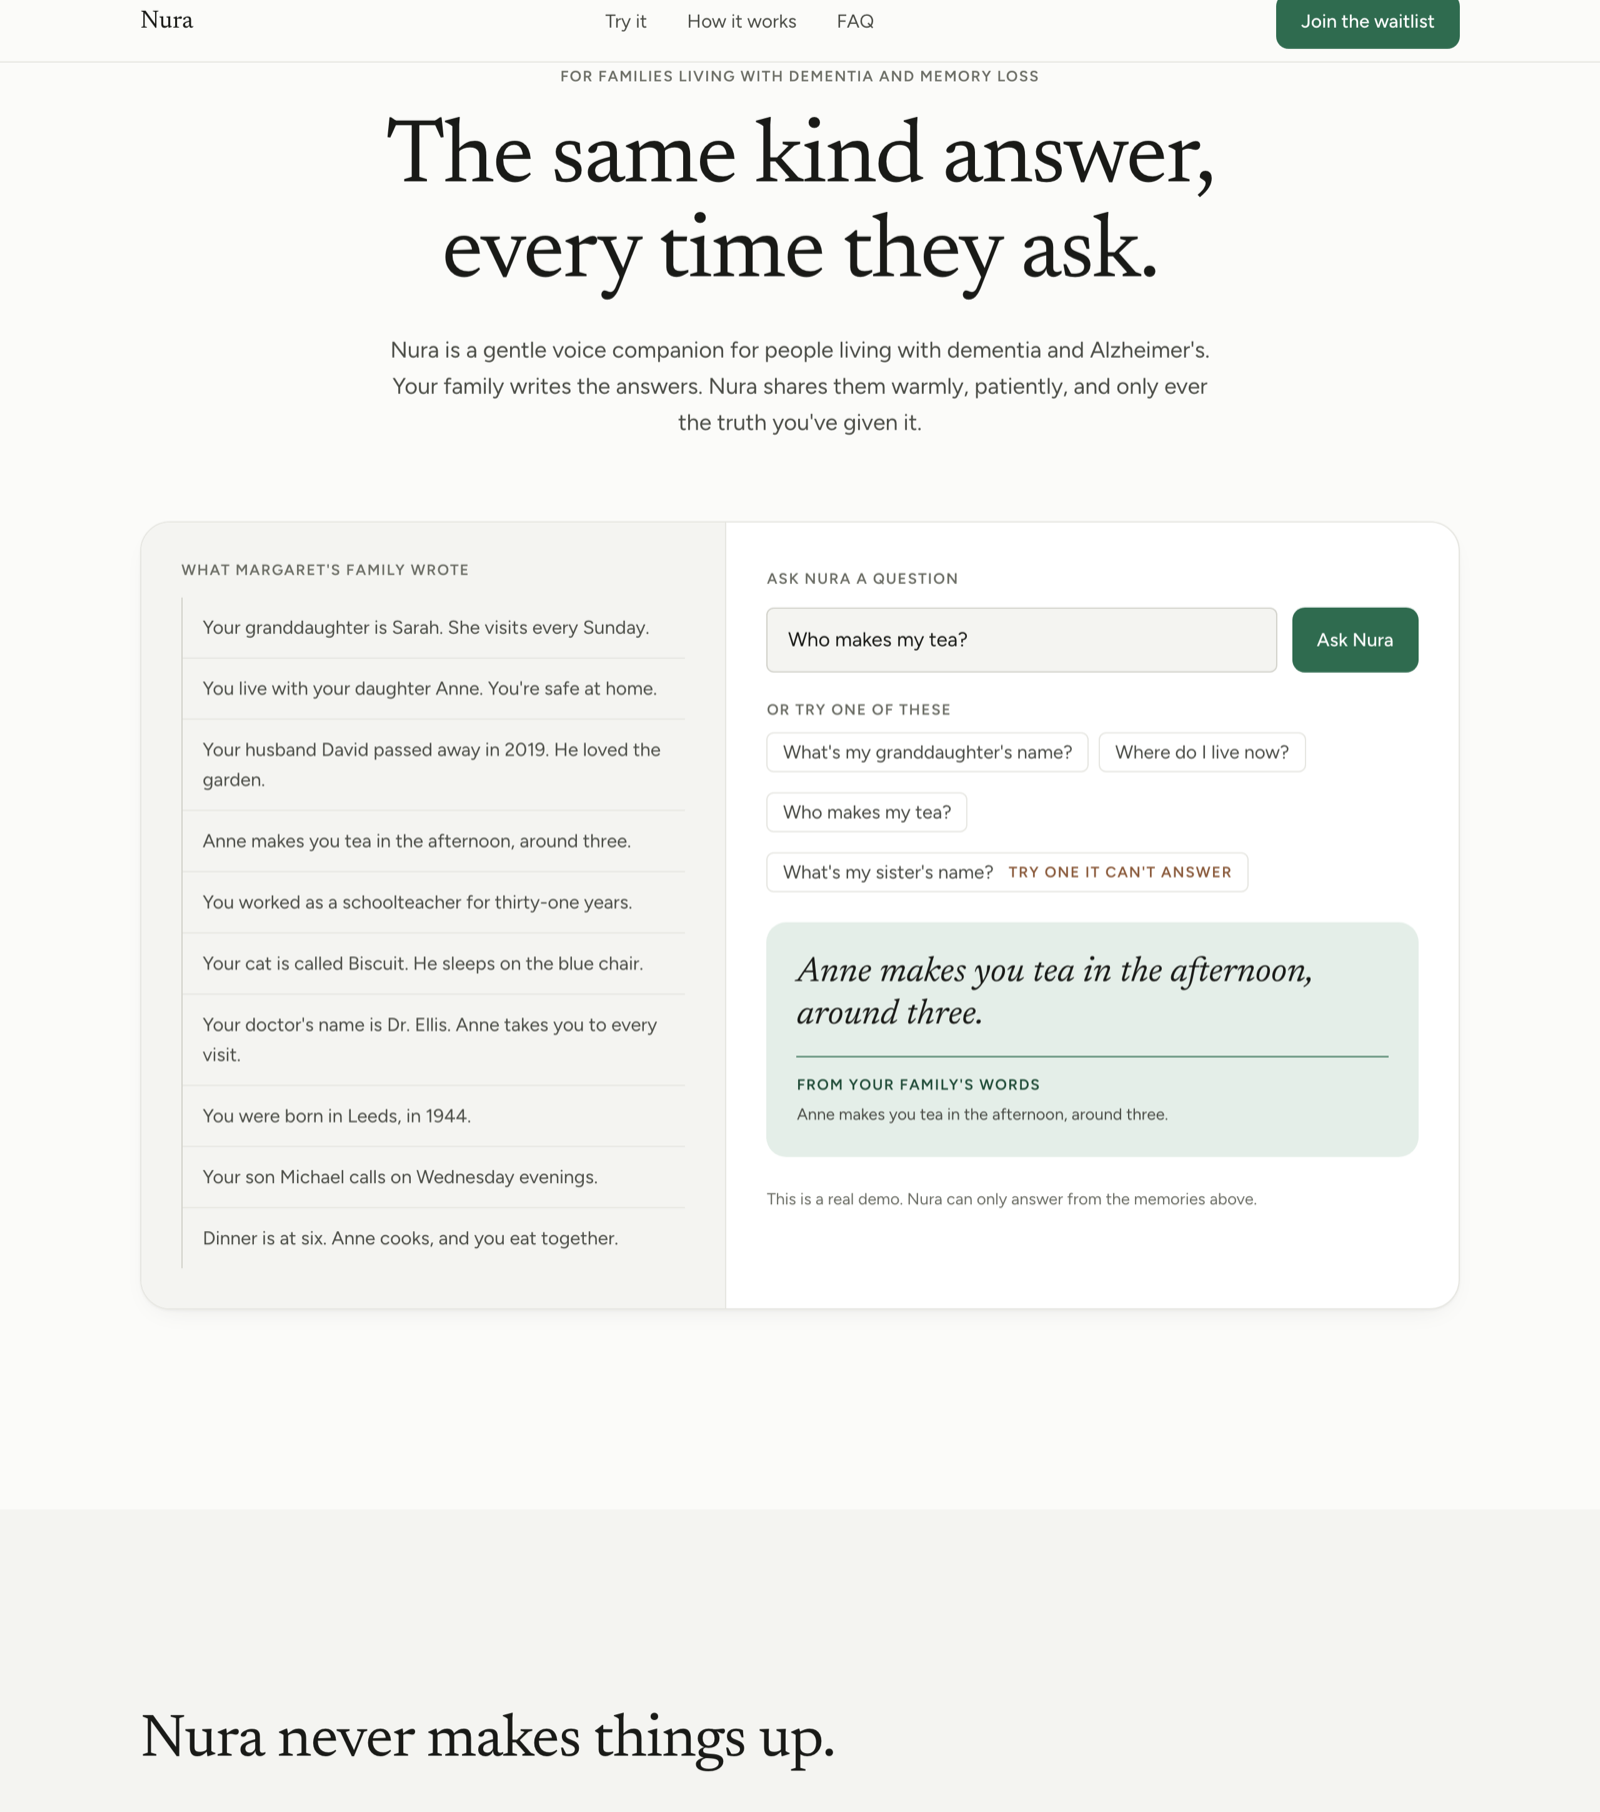
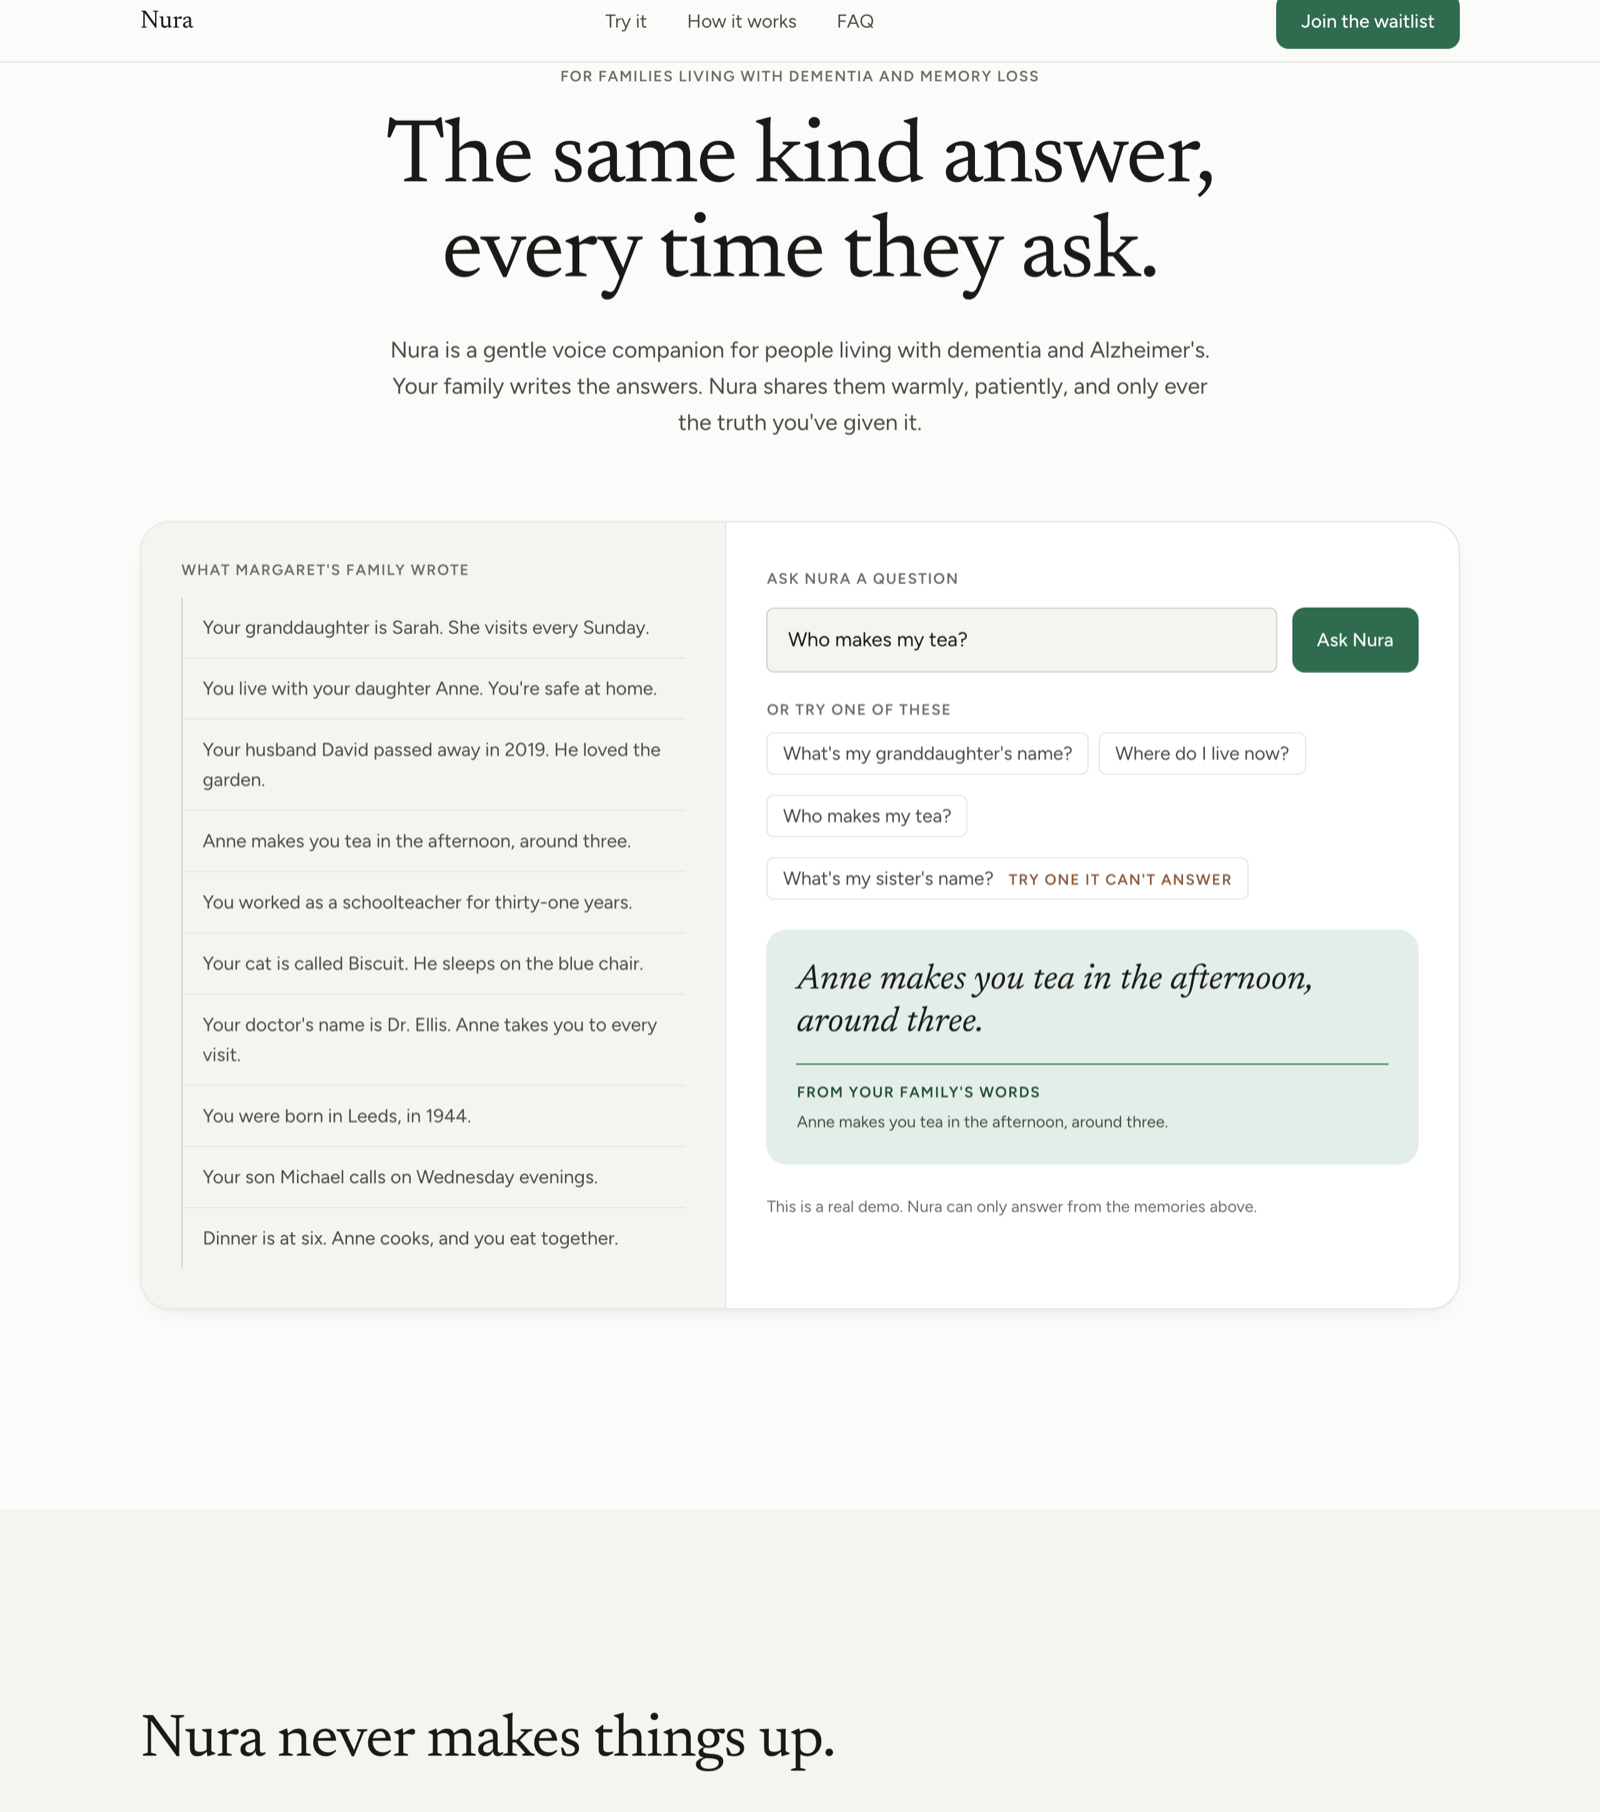
Let a long chip wrap instead of clipping its own label
At 375px the sister's-name chip is wider than the column, and the fixed 32px
height meant its text spilled outside the border. The chip now lays its label
out as text rather than as two flex columns, and grows to fit when it wraps.
On a wide screen it is unchanged: one line, 32px.

Changed region(s): [[0.5, 0.4018, 0.875, 0.6799], [0.5938, 0.4018, 0.625, 0.4327]]

diff --git a/components/Demo.tsx b/components/Demo.tsx
@@ -162,7 +162,8 @@ export function Demo() {
 
           <p className="t-label mt-6 text-ink-3">{demo.chipsLabel}</p>
           {/* Chips are 32px by design; the transparent inset gives each one a
-              44px hit area without changing how it looks. */}
+              44px hit area without changing how it looks. They grow rather
+              than clip when a long label has to wrap on a narrow screen. */}
           <ul className="mt-3 flex flex-wrap gap-x-2 gap-y-4">
             {demo.chips.map((chip) => (
               <li key={chip.question}>
@@ -170,11 +171,13 @@ export function Demo() {
                   type="button"
                   onClick={() => askChip(chip.question)}
                   disabled={pending}
-                  className="t-body-s relative flex h-8 items-center gap-3 rounded-sm border border-line bg-surface px-3 text-ink-2 transition-colors duration-150 ease-nura before:absolute before:inset-x-0 before:-inset-y-2 before:content-[''] hover:border-line-strong hover:bg-sunken disabled:cursor-not-allowed disabled:opacity-60"
+                  className="t-body-s relative block min-h-8 rounded-sm border border-line bg-surface px-3 py-1 text-left text-ink-2 transition-colors duration-150 ease-nura before:absolute before:inset-x-0 before:-inset-y-2 before:content-[''] hover:border-line-strong hover:bg-sunken disabled:cursor-not-allowed disabled:opacity-60"
                 >
                   {chip.question}
                   {chip.marker ? (
-                    <span className="t-label text-clay">{chip.marker}</span>
+                    <span className="t-label ml-3 whitespace-nowrap text-clay">
+                      {chip.marker}
+                    </span>
                   ) : null}
                 </button>
               </li>
